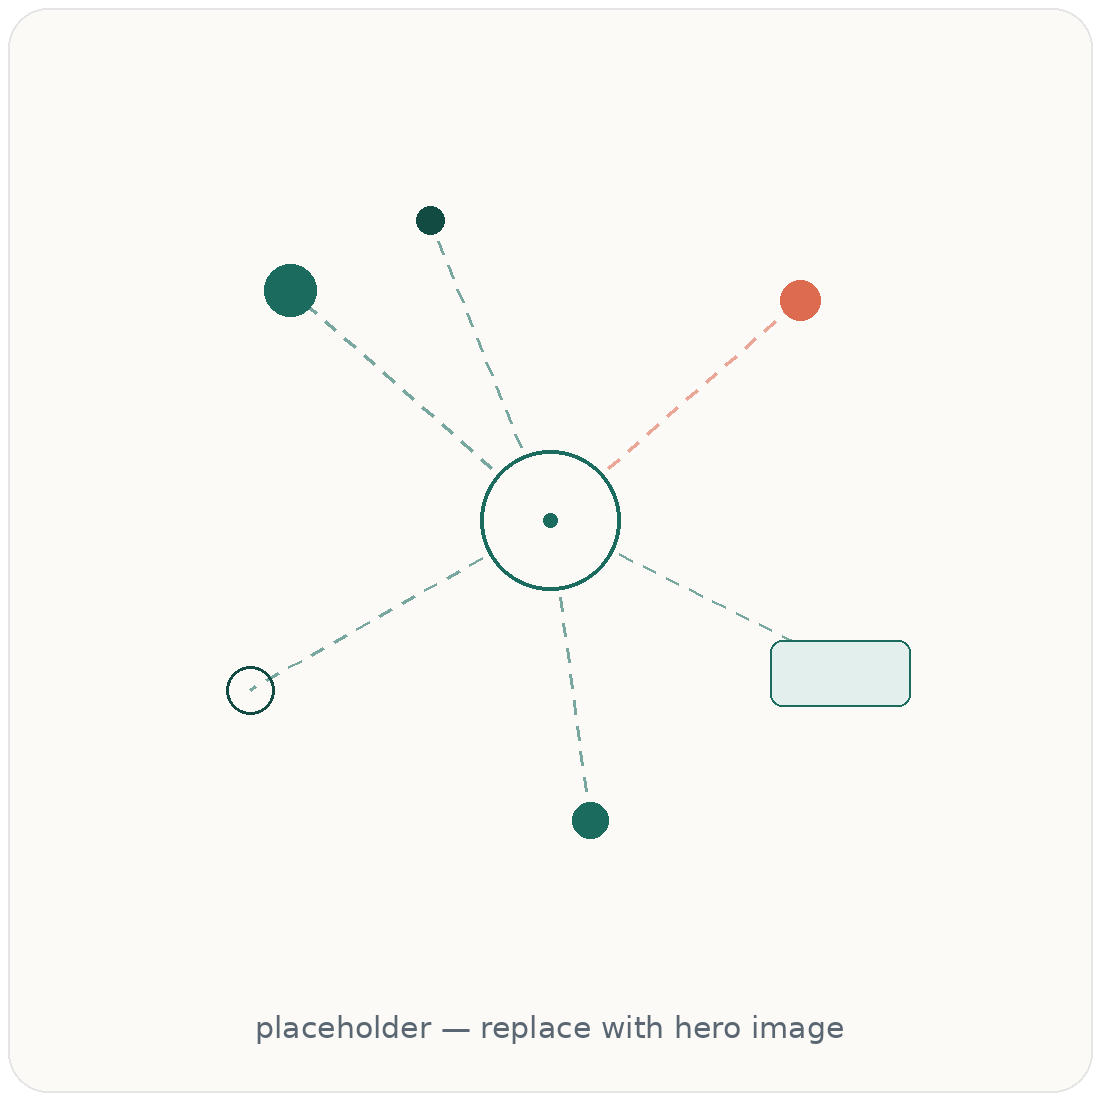
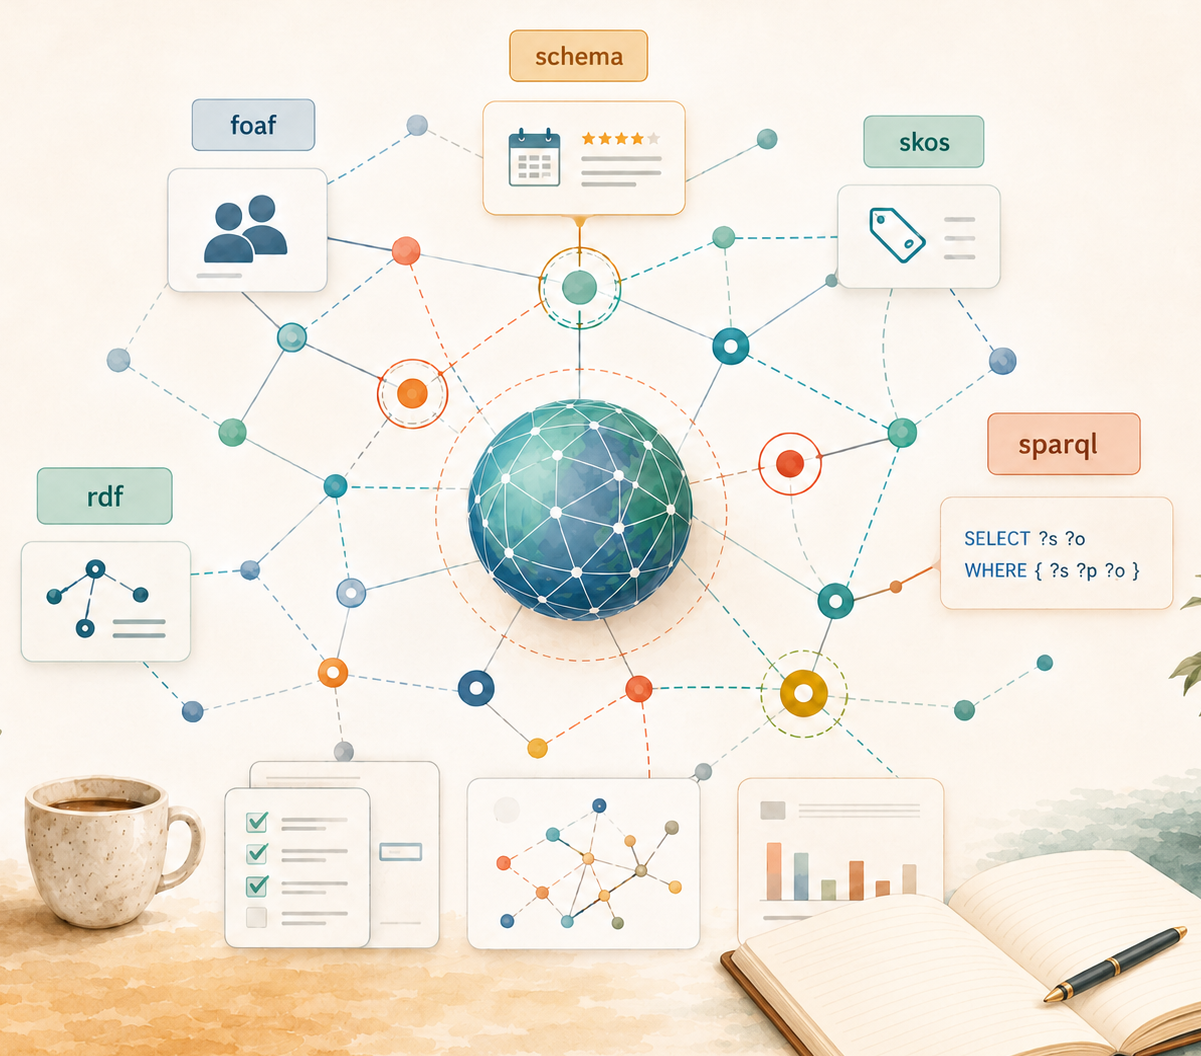
updated graphic on homepage

diff --git a/map.html b/map.html
@@ -4,7 +4,7 @@
 <meta charset="UTF-8">
 <meta name="viewport" content="width=device-width, initial-scale=1.0">
 <title>How the curriculum fits together — Sensemaking Semantic Web</title>
-<meta name="description" content="A navigable map of the Sensemaking Semantic Web curriculum: the reading path, the synthesis pages, the exercises, and how the cheat sheet runs alongside the whole thing.">
+<meta name="description" content="A navigable map of the Semantic Web Course curriculum: the reading path, the synthesis pages, the exercises, and how the cheat sheet runs alongside the whole thing.">
 <link rel="preconnect" href="https://fonts.googleapis.com">
 <link rel="preconnect" href="https://fonts.gstatic.com" crossorigin>
 <link href="https://fonts.googleapis.com/css2?family=EB+Garamond:ital,wght@0,500;1,500&family=IBM+Plex+Sans:wght@400;500;600&family=IBM+Plex+Mono:wght@400;500&display=swap" rel="stylesheet">
@@ -74,7 +74,7 @@
   .lede {
     font-size: 1rem;
     color: var(--teal-light);
-    max-width: 50rem;
+    max-width: 60rem;
     margin: 0;
   }
 
@@ -302,7 +302,7 @@
       <img class="brand-swirl" src="/assets/swirl/swirl-mark-square.png" alt="" aria-hidden="true">
       <span class="brand-text">
         <span class="brand-eyebrow">a Sensemaking AI series</span>
-        <span class="brand-name">Sensemaking Semantic Web</span>
+        <span class="brand-name">Semantic Web Course</span>
       </span>
     </a>
     <nav>
@@ -324,9 +324,9 @@
   </div>
 </header>
 <style>
-  .site-header { background: #fff; border-bottom: 1px solid #E0DAD0; }
+  .site-header { background: var(--cream); border-bottom: 1px solid rgba(26,26,26,0.06); }
   .site-header-inner {
-    max-width: 92rem; margin: 0 auto; padding: 1.25rem 2rem;
+    max-width: 92rem; margin: 0 auto; padding: 2rem 2rem;
     display: flex; align-items: center; justify-content: space-between; flex-wrap: wrap; gap: 1rem;
   }
   .brand-mark { display: flex; align-items: center; gap: 0.6rem; text-decoration: none; color: #1A1A1A; }
@@ -354,7 +354,7 @@
 <!-- ===================== Masthead ===================== -->
 <header class="masthead">
   <div class="masthead-inner">
-    <div class="brand">Sensemaking Semantic Web · Roadmap</div>
+    <div class="brand">Roadmap</div>
     <h1>Where this is, where it's going</h1>
     <p class="lede">A navigable map of the curriculum and an honest tracker of where things actually stand. Click any card to jump in.</p>
   </div>
@@ -481,11 +481,21 @@
         <text x="158" y="385" class="card-text desc">The deeper why, on real data — like sub-module 1.1.</text>
       </a>
 
+      <!-- Workbook (subordinate to Synthesis) -->
+      <line x1="458" y1="360" x2="474" y2="360" stroke="#C9DED9" stroke-width="1.2" stroke-dasharray="3,3"/>
+      <a id="link-workbook" href="https://curriculum.barbhs.com/modules/01-foundations/submodules/1-1-workbook-naruto.html" class="card-link" role="link" tabindex="0">
+        <rect class="card-rect-shadow" x="474" y="331" width="220" height="58" rx="6" filter="url(#cardHover)"/>
+        <rect class="card-rect" x="474" y="331" width="220" height="58" rx="6" fill="#F4F8F7" stroke="#C9DED9" stroke-width="1"/>
+        <text x="490" y="351" class="card-role role-mute">WORKBOOK</text>
+        <text x="490" y="368" class="card-text title-sm">Interactive workbook</text>
+        <text x="490" y="384" class="card-text desc-sm">Guided queries; work in the data.</text>
+      </a>
+
       <!-- you-are-here flag (controlled by JS) -->
-      <g id="here-flag" class="here-flag">
+      <!-- g id="here-flag" class="here-flag">
         <path d="M 474 350 L 568 350 L 568 372 L 474 372 L 464 361 Z" fill="#DC6B4F"/>
         <text x="523" y="365" class="flag" text-anchor="middle">this page</text>
-      </g>
+      </g -->
 
       <!-- =============== Card 4: Exercise =============== -->
       <a id="link-exercise" href="https://curriculum.barbhs.com/modules/01-foundations/README.html#exercises" class="card-link" role="link" tabindex="0">
@@ -558,10 +568,10 @@
    Cards have a single canonical href set in the SVG (for Module 1).
    When the user clicks a different module chip, we rewrite those hrefs.
 
-   Module 1: real URLs.
-   Modules 2-4: every card points to /roadmap.html and is visually greyed.
+   Each module defines liveCards[] — the cards that are active.
+   Unlisted cards are greyed out with a tooltip and point to ROADMAP.
 
-   Hand-maintained per the user's choice. TBD entries are flagged.
+   Update MODULE_DATA when a new module or resource ships.
    ===================================================================== */
 
 const BASE = 'https://curriculum.barbhs.com';
@@ -570,11 +580,12 @@ const ROADMAP = `${BASE}/map.html`;
 const MODULE_DATA = {
   1: {
     name: 'Foundations',
-    live: true,
+    liveCards: ['readme', 'reading', 'companion', 'synthesis', 'workbook', 'exercise', 'cheatsheet'],
     readme:     `${BASE}/modules/01-foundations/index`,
     reading:    `${BASE}/resources/reading-list.md`,
     companion:  `${BASE}/modules/01-foundations/submodules/1-1-reading-companion.pdf`,
     synthesis:  `${BASE}/modules/01-foundations/submodules/1-1-rdf-vs-lpg.html`,
+    workbook:   `${BASE}/modules/01-foundations/submodules/1-1-workbook-naruto.html`,
     exercise:   `${BASE}/modules/01-foundations/README.md#exercises`,
     cheatsheet: `${BASE}/reference/cheatsheets/module-1-cheatsheet.html`,
     cheatsheetFilename: 'module-1-cheatsheet.html',
@@ -582,27 +593,39 @@ const MODULE_DATA = {
   },
   2: {
     name: 'Modeling',
-    live: false,
-    readme:     ROADMAP, reading: ROADMAP, companion: ROADMAP,
-    synthesis:  ROADMAP, exercise: ROADMAP,
+    liveCards: ['readme', 'reading', 'workbook'],
+    readme:     `${BASE}/modules/02-modeling/module-02-README.html`,
+    reading:    `${BASE}/resources/reading-list.md`,
+    companion:  ROADMAP,
+    synthesis:  ROADMAP,
+    workbook:   `${BASE}/modules/02-modeling/submodules/2-1-rdfs-class-hierarchy.html`,
+    exercise:   ROADMAP,
     cheatsheet: ROADMAP,
     cheatsheetFilename: 'module-2-cheatsheet.html',
     showHereFlag: false,
   },
   3: {
     name: 'Reasoning',
-    live: false,
-    readme:     ROADMAP, reading: ROADMAP, companion: ROADMAP,
-    synthesis:  ROADMAP, exercise: ROADMAP,
+    liveCards: ['readme', 'reading', 'workbook'],
+    readme:     `${BASE}/modules/03-reasoning/module-03-README.html`,
+    reading:    `${BASE}/resources/reading-list.md`,
+    companion:  ROADMAP,
+    synthesis:  ROADMAP,
+    workbook:   `${BASE}/modules/03-reasoning/submodules/3-1-inferencing.html`,
+    exercise:   ROADMAP,
     cheatsheet: ROADMAP,
     cheatsheetFilename: 'module-3-cheatsheet.html',
     showHereFlag: false,
   },
   4: {
     name: 'Shipping',
-    live: false,
-    readme:     ROADMAP, reading: ROADMAP, companion: ROADMAP,
-    synthesis:  ROADMAP, exercise: ROADMAP,
+    liveCards: ['readme', 'reading', 'workbook'],
+    readme:     `${BASE}/modules/04-shipping/module-04-README.html`,
+    reading:    `${BASE}/resources/reading-list.md`,
+    companion:  ROADMAP,
+    synthesis:  ROADMAP,
+    workbook:   `${BASE}/modules/04-shipping/submodules/4-1-sparql-update.html`,
+    exercise:   ROADMAP,
     cheatsheet: ROADMAP,
     cheatsheetFilename: 'module-4-cheatsheet.html',
     showHereFlag: false,
@@ -612,8 +635,9 @@ const MODULE_DATA = {
 const TOOLTIP_MESSAGES = {
   readme:     m => `${m.name} README — not yet shipped. Click to see the roadmap.`,
   reading:    m => `Module ${m.name} reading list — coming when the module ships.`,
-  companion:  m => `Reading-companion deck — coming when the module ships.`,
+  companion:  m => `Reading-companion deck — written for Module 1 only.`,
   synthesis:  m => `Synthesis pages for Module ${m.name} — not yet written.`,
+  workbook:   m => `Module ${m.name} workbook — not yet shipped.`,
   exercise:   m => `Module ${m.name} exercises — defined once the module ships.`,
   cheatsheet: m => `Module ${m.name} cheat sheet — coming when the module ships.`,
 };
@@ -623,6 +647,7 @@ const cardIds = {
   reading:    'link-reading',
   companion:  'link-companion',
   synthesis:  'link-synthesis',
+  workbook:   'link-workbook',
   exercise:   'link-exercise',
   cheatsheet: 'link-cheatsheet',
 };
@@ -631,13 +656,15 @@ function setModule(num) {
   const data = MODULE_DATA[num];
   if (!data) return;
 
+  const live = new Set(data.liveCards || []);
+
   // Update each card link.
   for (const [key, id] of Object.entries(cardIds)) {
     const el = document.getElementById(id);
     if (!el) continue;
-    el.setAttribute('href', data[key]);
+    el.setAttribute('href', data[key] || ROADMAP);
 
-    if (data.live) {
+    if (live.has(key)) {
       el.classList.remove('card-greyed');
       el.removeAttribute('data-tooltip');
       el.setAttribute('aria-label', `${key} for Module ${num} (${data.name})`);

diff --git a/index.html b/index.html
@@ -86,10 +86,13 @@ section:first-of-type { border-top: none; }
 /* ─── Header ─── */
 
 .site-header {
-  padding: 2rem 0 0;
+  padding: 2rem 0;
   display: flex;
   justify-content: space-between;
   align-items: center;
+  border-bottom: 1px solid rgba(26,26,26,0.06); 
+  flex-wrap: wrap; 
+  gap: 1rem; 
 }
 .brand-mark {
   color: var(--ink);
@@ -100,30 +103,24 @@ section:first-of-type { border-top: none; }
 }
 .brand-swirl { width: 34px; height: 34px; display: block; flex-shrink: 0; }
 .brand-text { display: flex; flex-direction: column; line-height: 1.05; }
-.brand-eyebrow {
-  font-family: var(--font-sans);
-  font-size: 0.625rem;
-  font-weight: 500;
-  letter-spacing: 0.14em;
-  text-transform: uppercase;
-  color: var(--muted);
-}
-.brand-name { font-family: var(--font-serif); font-size: 1.15rem; color: var(--ink); }
-.site-header nav {
-  display: flex;
-  gap: 2rem;
-  font-size: 0.875rem;
-}
-.site-header nav a {
-  color: var(--warm-gray);
-  border-bottom: 2px solid transparent;
-  padding-bottom: 2px;
-  font-weight: 400;
-}
-.site-header nav a:hover { color: var(--ink); }
-.site-header nav a[aria-current="page"] { color: var(--ink); border-bottom-color: var(--teal); }
-
-@media (max-width: 640px) { .site-header nav { display: none; } }
+.brand-eyebrow { font-family: 'IBM Plex Sans', sans-serif; font-size: 0.6rem; font-weight: 500; letter-spacing: 0.14em; text-transform: uppercase; color: #5A6671; }
+  .brand-name { font-family: 'EB Garamond', Georgia, serif; font-size: 1.1rem; color: #1A1A1A; }
+  .site-header nav { display: flex; gap: 1.75rem; font-size: 0.875rem; flex-wrap: wrap; align-items: center; }
+  .site-header nav a { font-family: 'IBM Plex Sans', sans-serif; color: #5A6671; text-decoration: none; border-bottom: 2px solid transparent; padding-bottom: 2px; font-weight: 400; }
+  .site-header nav a:hover { color: #1A1A1A; }
+  .site-header nav a[aria-current="page"] { color: #1A1A1A; border-bottom-color: #1B6B5E; }
+  .nav-dropdown { position: relative; display: inline-flex; align-items: center; }
+  .nav-dropdown-menu {
+    display: none; position: absolute; top: 100%; right: 0;
+    background: #fff; border: 1px solid #E0DAD0; border-radius: 6px;
+    padding: 0.5rem 0 0.375rem; min-width: 200px;
+    box-shadow: 0 4px 16px rgba(0,0,0,0.08); z-index: 100;
+  }
+  .nav-dropdown:hover .nav-dropdown-menu { display: block; }
+  .site-header .nav-dropdown-menu a { display: block; padding: 0.45rem 1rem; border-bottom: none; white-space: nowrap; }
+  .site-header .nav-dropdown-menu a:hover { background: #F4F0E8; color: #1A1A1A; }
+  
+  @media (max-width: 640px) { .site-header nav { display: none; } }
 
 /* ─── Hero ─── */
 
@@ -615,13 +612,12 @@ footer a:hover { color: var(--ink); }
 <body>
 
 <div class="page">
-
 <header class="site-header">
-  <a href="#top" class="brand-mark">
+    <a href="/" class="brand-mark">
     <img class="brand-swirl" src="/assets/swirl/swirl-mark-square.png" alt="" aria-hidden="true">
     <span class="brand-text">
       <span class="brand-eyebrow">a Sensemaking AI series</span>
-      <span class="brand-name">Sensemaking Semantic Web</span>
+      <span class="brand-name">Semantic Web Course</span>
     </span>
   </a>
   <nav>
@@ -665,7 +661,7 @@ footer a:hover { color: var(--ink); }
           <dd>Barbara Hidalgo-Sotelo</dd>
         </div>
       </dl>
-      <div class="status-pill">Module 1 · in progress &mdash; launched May 31, 2026</div>
+      <div class="status-pill" style="margin-top: 1.2em; ">Module 1 · in progress &mdash; launched May 31, 2026</div>
     </div>
     <div class="hero-art">
       <img src="/placeholder.png" alt="Abstract knowledge-graph illustration in cream, amber, and teal — nodes joined by dashed connections.">

diff --git a/glossary.html b/glossary.html
@@ -322,7 +322,7 @@
     <img class="brand-swirl" src="/assets/swirl/swirl-mark-square.png" alt="" aria-hidden="true">
     <span class="brand-text">
       <span class="brand-eyebrow">a Sensemaking AI series</span>
-      <span class="brand-name">Sensemaking Semantic Web</span>
+      <span class="brand-name" style="font-weight: 500;">Semantic Web Course</span>
     </span>
   </a>
   <nav>
@@ -345,7 +345,7 @@
 </div>
 <style>
   .page { max-width: 92rem; margin: 0 auto; padding: 0 2rem; }
-  .site-header { padding: 1.5rem 0; display: flex; justify-content: space-between; align-items: center;
+  .site-header { padding: 2rem 0; display: flex; justify-content: space-between; align-items: center;
     border-bottom: 1px solid rgba(26,26,26,0.06); flex-wrap: wrap; gap: 1rem; }
   .brand-mark { display: flex; align-items: center; gap: 0.6rem; text-decoration: none; border-bottom: none; }
   .brand-swirl { width: 30px; height: 30px; display: block; flex-shrink: 0; }
@@ -378,7 +378,7 @@
 <!-- ===================== Masthead ===================== -->
 <header class="masthead">
   <div class="masthead-inner">
-    <div class="brand">Sensemaking AI · Curriculum reference</div>
+    <div class="brand">Curriculum reference</div>
     <h1>Glossary</h1>
     <div class="subtitle">Working definitions for the recurring terms in the Sensemaking Semantic Web curriculum — written in the curriculum's voice, with cross-references so reading one entry leads to three more.</div>
   </div>

diff --git a/_layouts/default.html b/_layouts/default.html
@@ -49,7 +49,7 @@
       <img class="brand-swirl" src="{{ '/assets/swirl/swirl-mark-square.png' | relative_url }}" alt="" aria-hidden="true">
       <span class="brand-text">
         <span class="brand-eyebrow">a Sensemaking AI series</span>
-        <span class="brand-name">Sensemaking Semantic Web</span>
+        <span class="brand-name">Semantic Web Course</span>
       </span>
     </a>
     <nav>